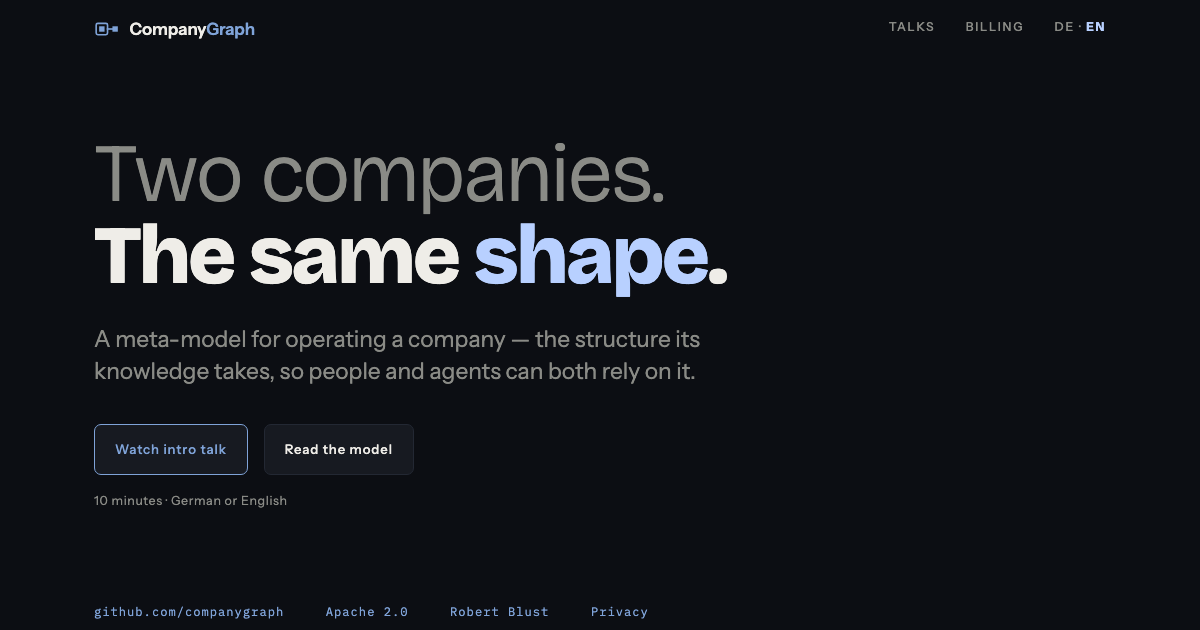
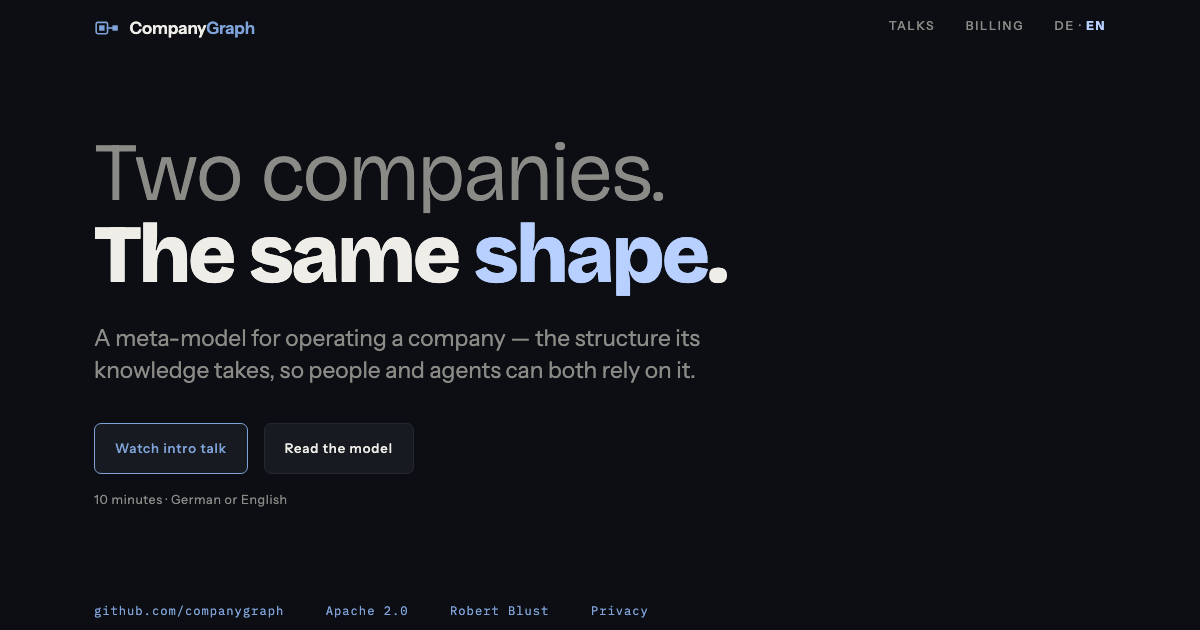
Bring the share cards to the shared setup
The three sibling sites each grew a staleness check in their own session
and disagreed on structure. This is the shape all three settle on.

A link names somewhere to go, not something to draw, so <a href> no longer
enters the recipe. The talks index links both multi-megabyte deck PDFs,
which meant its card reported stale on every npm run pdf over a page that
had not moved a pixel. <link>, <img> and url() still count. The walk
consumes quoted spans whole, so a > inside an attribute value cannot end a
tag early and drop every reference after it.

One exporter for all three cards, rendering from file:// like the deck
does, so npm run og needs no server and BASE is gone from it. Rendering
the landing page from file:// reproduces the committed served card byte
for byte, so the fold changed no pixels — verified before the crop moved.

One crop constant. The landing card was cropped a pixel higher than the
other two, an accident of having lived in a separate exporter rather than
a choice, so og.png re-renders one pixel down. Both talks cards are byte
identical. All three og.sha move, because the recipe covers the frame.

diff --git a/CLAUDE.md b/CLAUDE.md
@@ -136,7 +136,8 @@ that lived in another repository. No CI in *this* repository can catch drift in
   swapped in a different geometric claim — that hiding it was necessary because the figure
   "needs room the card does not have" and would "cut the two trees off" — and that was
   disproved by literally rendering the card *without* hiding `.figure`: it fit inside the crop
-  fine. The comment now in `export-og.mjs` makes no claim about fit, cropping, or dimensions at
+  fine. The comment now sits beside `HOME_HIDE` in `og-recipe.mjs`, which is where the rule
+  itself moved, and it makes no claim about fit, cropping, or dimensions at
   all: the card's job is the headline and the call to action, the figure is the argument that
   leads there, and an argument doesn't survive being glanced at in a feed regardless of whether
   the crop has room for it. If you touch this comment again, keep it that way — a claim about
@@ -174,24 +175,30 @@ other check here passes the whole time it is wrong.
   check re-derives a hash of what went *into* the card and compares it with the `og.sha`
   committed beside it. It renders nothing, needs no browser and no server, and runs in CI
   before `npm ci`.
-- **The recipe is the page, plus every local file the page names, plus the exporter's own
+- **The recipe is the page, plus every local file the page *draws*, plus the exporter's own
   frame.** Fonts and images count: a font swap changes every card while no HTML changes at all.
   Because `fonts/` is one copy at the root and every page reaches it relatively, perturbing a
   font here marks **all three** cards stale — the sibling repositories, whose decks carry their
   own `fonts/`, isolate theirs, and this repository deliberately does not.
-- **`og-recipe.mjs` holds the frame and the hide rules, and both exporters read them from it.**
+- **An `<a href>` is skipped: a link names somewhere to go, not something to draw.** The talks
+  index is why the exception exists — it links both multi-megabyte deck PDFs, so hashing link
+  targets reported that card stale on every `npm run pdf`, over a page that had not moved a
+  pixel. `<link>`, `<img>` and `url()` in the inline CSS all still count.
+- **The walk consumes quoted spans whole**, so a `>` inside an attribute value cannot end a tag
+  early and silently drop every reference after it. The deck keeps prose in `data-notes`, where
+  that character is ordinary.
+- **`og-recipe.mjs` holds the frame and the hide rules, and the exporter reads them from it.**
   This is the point of the module, not tidiness. A second copy of a knob is a knob that can be
   edited without the hash moving — a card reported current after the thing that renders it
-  changed, which is the one failure the whole mechanism exists to make impossible.
-- **Two exporters, one check.** `npm run og` at the root makes the landing card only;
-  `cd talks/intro && npm run og` makes the other two. `og:check` covers all three, so a green
-  check means both were run.
+  changed, which is the one failure the whole mechanism exists to make impossible. It is also
+  what makes the module importable by a test: an exporter that renders on import cannot be.
+- **One exporter, one crop, and no server.** `npm run og` renders all three cards from
+  `file://` — the same way the deck opens — because every page here references its assets
+  relatively. The landing card was once cropped a pixel higher than the other two; that was an
+  accident of a separate exporter, not a choice, and there is now one constant.
 - **Both files are committed together** — `og.png` and the `og.sha` beside it, in the same
   commit as the page that moved. The stamp is written after the screenshot, so an exporter that
   dies half way leaves the card reported stale rather than reported current.
-- **The root exporter refuses to stamp when `BASE` is not local.** The recipe describes the
-  files in this repository; rendering the deployed site and stamping anyway would write a stamp
-  for sources the card was not made from.
 - **It over-reports and never under-reports, deliberately.** Editing a comment in a page marks
   its card stale even though the render would be identical. Clearing that is `npm run og` and a
   commit — cheap, and the opposite error is a card nobody notices for days.
@@ -218,7 +225,7 @@ other check here passes the whole time it is wrong.
   way** — a backgrounded process keeps the step's log pipe open, and the runner waits on a
   descriptor that never closes, so the step's output must be redirected away from that pipe
   (`> /dev/null 2>&1 &`), not just sent to the background. `npm run og` never runs here — it
-  would regenerate and overwrite the committed card.
+  would regenerate and overwrite the committed cards.
 - **`npm run test:og` and `npm run og:check` run before `npm ci`**, because neither installs or
   renders anything, and a stale share card is the one failure the browser suite cannot see: the
   card is a valid PNG of a page that has since moved on. They are the cheapest steps in the job

diff --git a/README.md b/README.md
@@ -33,8 +33,9 @@ split had to be unwound. Do not recreate one.
 - `talks/index.html` — the talks index, carrying this site's chrome so a visitor crossing into
   it meets no seam.
 - `talks/intro/` — the deck: `index.html`, `audio/{en,de}/` (11 clips each), both PDFs,
-  `export-og.mjs` and `export-pdf.mjs`, and `tts/generate.py`, which reads the deck's speaker
-  notes as the single source for what is spoken.
+  `export-pdf.mjs`, and `tts/generate.py`, which reads the deck's speaker notes as the single
+  source for what is spoken. Its share card is rendered by the root `export-og.mjs`, with the
+  other two.
 - `fonts/` — four self-hosted `.woff2` files, and the only copy. Every page and the deck point
   at them relatively, so the deck still opens from `file://`.
 - `logo.svg` — the mark, described below. `favicon.svg` is the same mark at a size that has to
@@ -42,8 +43,8 @@ split had to be unwound. Do not recreate one.
 - `og.png`, `talks/og.png`, `talks/intro/og.png` — 1200×630 share cards, each rendered from
   the page it belongs to, and an `og.sha` beside each one: a hash of everything that went into
   the card, so `npm run og:check` can say whether it still shows its page. `og-recipe.mjs`
-  defines what that is and `og-check.mjs` reports it; both exporters read their frame from the
-  first and write the stamp.
+  defines what goes into a card, `export-og.mjs` renders all three and writes the stamps, and
+  `og-check.mjs` reports which have drifted.
 - `CNAME`, `robots.txt`, `sitemap.xml` — the domain, and one flat list of every URL on it.
 - `verify/check.mjs` — the suite, covering all five pages in one run. `verify/design.mjs` is
   the shared design-system copy, byte-identical across `blust.ch` and `guestgraph.io`; never
@@ -73,16 +74,16 @@ npm run serve                      # → http://localhost:8000
 npm run verify                     # renders every page and asserts the DOM
 npm run og:check                   # do the three share cards still show their pages?
 npm run test:og                    # the card check's own tests (node --test, no deps)
-npm run og                         # regenerates og.png after a visual change
+npm run og                         # re-renders all three share cards after a visual change
 
-cd talks/intro && npm install      # pdf-lib, for the deck's exporters
-npm run og && npm run pdf          # the deck's card and both PDFs
+cd talks/intro && npm install      # pdf-lib, for the deck's PDF exporter
+npm run pdf                        # both language PDFs
 ```
 
 `og:check` needs no server and no browser — it re-derives each card's recipe and compares it
-with the `og.sha` committed beside it, which is why CI runs it before `npm ci`. It covers all
-three cards, but only the root `npm run og` remakes the landing one; the other two come from
-`talks/intro`. Commit each `og.png` with its `og.sha`, in the commit that moved the page.
+with the `og.sha` committed beside it, which is why CI runs it before `npm ci`. `npm run og`
+needs no server either: it renders every card from `file://`, the same way the deck opens.
+Commit each `og.png` with its `og.sha`, in the commit that moved the page.
 
 `verify` needs a server already running in another terminal. It also runs against the live
 site — `BASE=https://companygraph.io npm run verify` — which is worth doing after a deploy,
